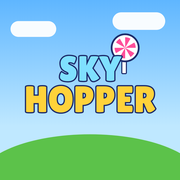
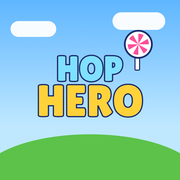
Add files via upload

Changed region(s): [[0.1111, 0.1667, 0.8889, 0.6667]]

diff --git a/index.html b/index.html
@@ -7,7 +7,7 @@
 <meta name="mobile-web-app-capable" content="yes">
 <meta name="apple-mobile-web-app-capable" content="yes">
 <meta name="apple-mobile-web-app-status-bar-style" content="black-translucent">
-<title>Sky Hopper</title>
+<title>Hop Hero</title>
 <link rel="manifest" href="manifest.webmanifest">
 <link rel="icon" href="icons/icon-192.png">
 <link rel="apple-touch-icon" href="icons/apple-touch-icon.png">
@@ -183,9 +183,9 @@
   <!-- Splash / title screen -->
   <div id="splash" class="overlay ui show">
     <div class="splash-inner">
-      <div class="logo big" role="img" aria-label="Sky Hopper">
-        <span class="l1"><span>S</span><span>K</span><span>Y</span></span>
-        <span class="l2"><span>H</span><span>O</span><span>P</span><span>P</span><span>E</span><span>R</span></span>
+      <div class="logo big" role="img" aria-label="Hop Hero">
+        <span class="l1"><span>H</span><span>O</span><span>P</span></span>
+        <span class="l2"><span>H</span><span>E</span><span>R</span><span>O</span></span>
         <svg class="lolly" viewBox="0 0 40 70" aria-hidden="true">
           <rect x="18" y="34" width="4" height="34" rx="2" fill="#fff"/>
           <circle cx="20" cy="20" r="18" fill="#ff5fa8" stroke="#ffd43b" stroke-width="2.5"/>
@@ -196,15 +196,15 @@
       <div class="ribbon">A Lollipop Adventure</div>
       <div class="tap" id="tapStart">Tap to start</div>
     </div>
-    <div class="ver">v1.4</div>
+    <div class="ver">v1.5</div>
   </div>
 
   <!-- Main menu -->
   <div id="menu" class="overlay ui">
     <div class="card menu-card">
-      <div class="logo small" role="img" aria-label="Sky Hopper">
-        <span class="l1"><span>S</span><span>K</span><span>Y</span></span>
-        <span class="l2"><span>H</span><span>O</span><span>P</span><span>P</span><span>E</span><span>R</span></span>
+      <div class="logo small" role="img" aria-label="Hop Hero">
+        <span class="l1"><span>H</span><span>O</span><span>P</span></span>
+        <span class="l2"><span>H</span><span>E</span><span>R</span><span>O</span></span>
         <svg class="lolly" viewBox="0 0 40 70" aria-hidden="true">
           <rect x="18" y="34" width="4" height="34" rx="2" fill="#fff"/>
           <circle cx="20" cy="20" r="18" fill="#ff5fa8" stroke="#ffd43b" stroke-width="2.5"/>
@@ -228,8 +228,8 @@
     <div class="card" style="max-width:480px">
       <h2>How to play</h2>
       <div class="tut">
-        <span class="t-touch">◀ ▶ buttons: run<br>▲ button: jump (hold = higher)<br>✦ button: swing your lollipop<br></span>
-        <span class="t-keys">← → / A D: run<br>Space / ↑ / W: jump (hold = higher)<br>X / J: swing your lollipop<br>P: pause &nbsp;•&nbsp; M: mute &nbsp;•&nbsp; N: music<br></span>
+        <span class="t-touch">◀ ▶ buttons: run<br>▲ button: jump (hold = higher, tap again in the air = double jump)<br>✦ button: swing your lollipop<br></span>
+        <span class="t-keys">← → / A D: run<br>Space / ↑ / W: jump (hold = higher, press again in the air = double jump)<br>X / J: swing your lollipop<br>P: pause &nbsp;•&nbsp; M: mute &nbsp;•&nbsp; N: music<br></span>
         Jump on enemies or bop them with the lollipop.<br>
         Avoid spikes and pits.<br>
         Bounce on springs, float on fans, hang from bars and swing on vines (▲ to let go).<br>
@@ -326,7 +326,7 @@ const TILE = 32, ROWS = 12, VIEW_H = ROWS * TILE;   // world is always 384 units
 const STEP = 1 / 120;                               // fixed physics step
 const PHYS = {
   GRAVITY: 1700, MAX_FALL: 720, RUN: 200, ACC_G: 2400, ACC_A: 1600, FRIC: 2600,
-  JUMP_V: 600, JUMP_CUT: 0.45, COYOTE: 0.09, BUFFER: 0.12
+  JUMP_V: 600, AIR_JUMP_V: 520, JUMP_CUT: 0.45, COYOTE: 0.09, BUFFER: 0.12
 };
 const MAX_HEARTS = 3, START_LIVES = 3, ATK_T = 0.2;
 
@@ -437,6 +437,7 @@ const Sound = {
     } catch (e) {}
   },
   jump()   { this.tone(300, 0.14, 'square', 0.12, 640); },
+  airJump() { this.tone(500, 0.12, 'square', 0.1, 1000); this.tone(750, 0.1, 'triangle', 0.08, 1300, 0.04); },
   roar()   { this.tone(140, 0.6, 'sawtooth', 0.22, 60); this.tone(210, 0.5, 'square', 0.08, 90, 0.05); },
   thud()   { this.tone(110, 0.22, 'sine', 0.5, 40); this.noise(0.12, 0.2, 300); },
   swoop()  { this.tone(900, 0.35, 'triangle', 0.15, 250); },
@@ -575,7 +576,7 @@ const Music = {
 };
 // which loop should be playing right now
 function desiredTrack() {
-  if (G.state === 'playing') return G.boss && G.boss.active ? 4 : Math.min(G.levelIndex, 3);
+  if (G.state === 'playing') return G.boss && G.boss.active ? 4 : ([0, 1, 2, 3, 0][G.levelIndex] ?? 0);
   if (G.state === 'menu' || G.state === 'howto') return 0;
   if (G.state === 'settings') return G.settingsFrom === 'paused' ? -1 : 0;
   return -1;   // paused, level clear, game over, victory -> silence (jingles play instead)
@@ -620,6 +621,7 @@ const LEVELS = [
       .sign(39, 9, 'Avoid spikes').spikes(42, 43, 9)
       .coins(45, 47, 9).q(46, 6)
       .sign(51, 9, 'Checkpoint ⚑').at(53, 9, 'C')
+      .sign(56, 9, 'Tap ▲ again in the air!')
       .plat(59, 8, 2).coins(59, 60, 7)
       .ground(63, 88)
       .sign(65, 9, '✦ = lollipop swing!').at(71, 9, 'e')
@@ -780,7 +782,39 @@ const LEVELS = [
       .ground(214, 216, 3)
       .at(222, 9, 'k').coins(218, 230, 6)
       .sign(235, 9, 'Boss ahead!').at(239, 9, 'C')
-      .arena(244, 266, 'puffer').q(250, 5).q(260, 5) }
+      .arena(244, 266, 'puffer').q(250, 5).q(260, 5) },
+
+  { name: 'Candy Clouds', theme: 4, build: () => makeMap(316)
+      .ground(0, 19).at(2, 9, 'P')
+      .sign(5, 9, 'Candy Clouds!').coins(8, 11, 9)
+      .sign(14, 9, 'Big gap? Double jump!').coins(20, 24, 6)
+      .ground(25, 62).at(30, 9, 'e')
+      .plat(35, 5, 5).coins(35, 39, 4).star(37, 3)
+      .at(44, 9, 'E').q(48, 6).at(52, 5, 'b').coins(55, 57, 9)
+      .at(60, 9, 'C')
+      .plat(65, 8, 3).coins(65, 67, 7)
+      .plat(71, 6, 3).coins(71, 73, 5)
+      .plat(78, 7, 3).coins(78, 80, 6).coins(82, 84, 5)
+      .ground(86, 176).at(92, 9, 'e').at(97, 9, 'e').spikes(104, 105, 9).at(109, 5, 'b')
+      .spring(113, 9).plat(115, 3, 4).coins(115, 118, 2)
+      .at(121, 9, 'C')
+      .spikes(126, 142, 9)
+      .plat(128, 7, 2).coins(128, 129, 6)
+      .plat(133, 6, 2).coins(133, 134, 5)
+      .plat(138, 7, 2).coins(138, 139, 6)
+      .at(148, 9, 'E').at(153, 9, 'e')
+      .fan(160, 9, 9)
+      .ground(162, 167, 2).coins(163, 164, 1).star(165, 1).coins(166, 166, 1)
+      .q(171, 6).q(172, 6)
+      .spring(175, 9).bars(175, 191, 5).star(183, 4).coins(178, 188, 3)
+      .ground(192, 222).at(194, 9, 'C')
+      .at(199, 9, 'E').at(203, 5, 'b').at(207, 9, 'e').spikes(211, 212, 9).coins(215, 218, 9)
+      .vine(224, 1, 7).vine(231, 1, 7).coins(226, 229, 9)
+      .ground(237, 315).at(239, 9, 'C')
+      .ground(246, 250, 7).ground(251, 255, 5).coins(246, 250, 6).coins(251, 255, 4)
+      .at(258, 4, 'b').at(262, 9, 'E').at(266, 9, 'e').spikes(270, 272, 9)
+      .sign(276, 9, 'Boss ahead!').at(280, 9, 'C')
+      .arena(285, 307, 'gummy').q(290, 6).q(302, 6) }
 ];
 
 const THEMES = [
@@ -804,6 +838,12 @@ Object.assign(THEMES[3], { water: true, props: ['weed', 'coral', 'weed', 'coral2
 Object.assign(THEMES[0], { props: ['flower', 'flower', 'bush', 'mush', 'tuft'], amb: 'butterfly', deco: 'trees', decoLight: '#7cc98a', decoDark: '#55a368', trunk: '#7d5a3c', haze: 'rgba(214,243,255,.38)', fore: 'rgba(28,70,32,.6)' });
 Object.assign(THEMES[1], { props: ['cactus', 'rock', 'shrub', 'rock'], amb: 'dust', deco: 'mesas', decoLight: '#eaa06e', decoDark: '#bf6e48', trunk: '#8a4527', haze: 'rgba(255,214,160,.32)', fore: 'rgba(90,35,18,.55)' });
 Object.assign(THEMES[2], { props: ['gmush', 'crystal', 'gmush', 'tuft'], amb: 'firefly', deco: 'crystals', decoLight: '#8ff0ff', decoDark: '#4d7fe0', trunk: '#2a2c58', haze: 'rgba(70,70,150,.35)', fore: 'rgba(8,8,36,.65)' });
+
+THEMES.push({ sky: ['#ff9ad5', '#ffe6f4'], far: '#f7b6e0', near: '#e78cc9', dirt: '#e9b886', dirtDark: '#c98f5e', speck: '#fff1dd',
+  grass: '#ff7ec4', grassLight: '#ffd1ea', plat: '#7cc8ff', platDark: '#3f8fcf', platLight: '#c4e9ff',
+  cloud: 'rgba(255,255,255,.95)', sun: '#fff6c2',
+  props: ['flower', 'mush', 'flower', 'tuft'], amb: 'butterfly', deco: 'trees', decoLight: '#ffb8e0', decoDark: '#ff86c4', trunk: '#ffffff',
+  haze: 'rgba(255,225,242,.38)', fore: 'rgba(120,30,80,.5)' });
 
 function parseLevel(idx) {
   const def = LEVELS[idx], b = def.build(), cols = b.cols, g = b.g;
@@ -901,7 +941,7 @@ function moveBody(b, lv, dt) {
 }
 
 function makePlayer(x, y) {
-  return { x, y, w: 22, h: 28, vx: 0, vy: 0, onGround: false, facing: 1, coyote: 0, jumpBuffer: 0, jumping: false,
+  return { x, y, w: 22, h: 28, vx: 0, vy: 0, onGround: false, facing: 1, coyote: 0, jumpBuffer: 0, jumping: false, airJumps: 1,
     knock: 0, prevBottom: y + 28, hearts: maxHearts(), invuln: 0, atkT: 0, atkCD: 0, dead: false, deadT: 0,
     anim: 0, squash: 1, blink: 2, idleT: 0,
     barI: -1, vineI: -1, ang: 0, angV: 0, ropeR: 0, grabCD: 0, boostT: 0, inFan: false, headHit: null, springT: 0, strokeT: 0, bubbleT: 1 };
@@ -961,7 +1001,7 @@ function playerPhysics(p, inp, dt, lv) {
   if (p.barI >= 0) {
     const bar = lv.bars[p.barI];
     if (p.jumpBuffer > 0) {
-      p.jumpBuffer = 0; p.barI = -1; p.grabCD = 0.35; p.vy = -HOP_V; p.jumping = false;
+      p.jumpBuffer = 0; p.barI = -1; p.grabCD = 0.35; p.vy = -HOP_V; p.jumping = false; p.airJumps = 1;
       ev.jumped = true; ev.released = true; return ev;
     }
     p.vx = dir * BAR_SPEED; if (dir) { p.facing = dir; p.anim += dt * 9; }
@@ -976,7 +1016,7 @@ function playerPhysics(p, inp, dt, lv) {
   if (p.vineI >= 0) {
     const v = lv.vines[p.vineI];
     if (p.jumpBuffer > 0) {
-      p.jumpBuffer = 0; p.vineI = -1; p.grabCD = 0.4;
+      p.jumpBuffer = 0; p.vineI = -1; p.grabCD = 0.4; p.airJumps = 1;
       const tvx = p.angV * p.ropeR * Math.cos(p.ang), tvy = -p.angV * p.ropeR * Math.sin(p.ang);
       p.vx = Math.max(-PHYS.RUN * 1.7, Math.min(PHYS.RUN * 1.7, tvx));
       p.vy = Math.min(tvy, 0) - VINE_BOOST; p.boostT = 0.7; p.jumping = false;
@@ -1011,9 +1051,13 @@ function playerPhysics(p, inp, dt, lv) {
     }
   }
   p.coyote = p.onGround ? PHYS.COYOTE : p.coyote - dt;
+  if (p.onGround) p.airJumps = 1;
   if (p.jumpBuffer > 0) {
     if (p.coyote > 0) {
       p.vy = -PHYS.JUMP_V; p.coyote = 0; p.jumpBuffer = 0; p.jumping = true; p.onGround = false; ev.jumped = true;
+    } else if (p.airJumps > 0 && p.jumpBuffer >= PHYS.BUFFER) {
+      // double jump: one extra jump per airtime, on a fresh press in mid-air
+      p.airJumps--; p.vy = -PHYS.AIR_JUMP_V; p.jumpBuffer = 0; p.jumping = true; ev.jumped = true; ev.airJump = true;
     } else p.jumpBuffer -= dt;
   }
   if (p.jumping && !inp.jump && p.vy < 0) { p.vy *= PHYS.JUMP_CUT; p.jumping = false; }
@@ -1033,7 +1077,7 @@ function playerPhysics(p, inp, dt, lv) {
     const fromAbove = p.prevBottom <= sp.y + 10 && feet >= sp.y - 1;
     const walkedOn = p.onGround && Math.abs(cx - (sp.x + sp.w / 2)) < 9 && Math.abs(feet - (sp.y + sp.h)) < 2;
     if (fromAbove || walkedOn) {
-      p.y = sp.y - p.h; p.vy = -SPRING_V; p.onGround = false; p.jumping = false; p.coyote = 0; p.jumpBuffer = 0;
+      p.y = sp.y - p.h; p.vy = -SPRING_V; p.onGround = false; p.jumping = false; p.coyote = 0; p.jumpBuffer = 0; p.airJumps = 1;
       ev.spring = sp; ev.landed = false; break;
     }
   }
@@ -1259,19 +1303,20 @@ const BOSSES = {
   slime:  { name: 'King Slime',    w: 76, h: 58 },
   beetle: { name: 'Captain Shell', w: 84, h: 50 },
   bat:    { name: 'Bat Queen',     w: 74, h: 46 },
-  puffer: { name: 'Puffer King',   w: 66, h: 58 }
+  puffer: { name: 'Puffer King',   w: 66, h: 58 },
+  gummy:  { name: 'Gummy King',    w: 80, h: 62, hp: 4 }
 };
 const BOSS_HP = 3;
 function makeBoss(lv) {
   const a = lv.arena, d = BOSSES[a.type];
-  const b = { type: a.type, name: d.name, w: d.w, h: d.h, hp: BOSS_HP, maxHp: BOSS_HP, x: a.x1 - 150 - d.w, y: 0, vx: 0, vy: 0,
+  const b = { type: a.type, name: d.name, w: d.w, h: d.h, hp: d.hp || BOSS_HP, maxHp: d.hp || BOSS_HP, hops: 0, x: a.x1 - 150 - d.w, y: 0, vx: 0, vy: 0,
     state: 'wait', t: 0, hurtT: 0, dir: -1, look: -1, active: false, defeated: false, deadT: 0, onGround: false, scale: 1 };
   b.y = a.type === 'bat' ? 70 : a.type === 'puffer' ? 150 : 10 * TILE - d.h;
   return b;
 }
 function bossVulnerable(B) {
   if (!B || B.hurtT > 0 || B.defeated) return false;
-  return B.type === 'slime' || (B.type === 'beetle' && B.state === 'dizzy') || (B.type === 'bat' && B.state === 'stuck') ||
+  return B.type === 'slime' || B.type === 'gummy' || (B.type === 'beetle' && B.state === 'dizzy') || (B.type === 'bat' && B.state === 'stuck') ||
     (B.type === 'puffer' && (B.state === 'swim' || B.state === 'deflate'));
 }
 function bossHarmful(B) {
@@ -1295,7 +1340,7 @@ function setGates(on) {
 function startBossFight() {
   const B = G.boss;
   B.active = true; B.t = 0;
-  B.state = { slime: 'idle', beetle: 'walk', bat: 'fly', puffer: 'swim' }[B.type];
+  B.state = { slime: 'idle', gummy: 'idle', beetle: 'walk', bat: 'fly', puffer: 'swim' }[B.type];
   setGates(true);
   G.bossBanner = 2.6; G.shake = 0.3;
   Sound.roar();
@@ -1314,8 +1359,8 @@ function hitBoss(how) {
   Sound.bossHit();
   if (B.hp <= 0) { defeatBoss(); return; }
   B.t = 0;
-  B.state = { slime: 'idle', beetle: 'walk', bat: 'rise', puffer: 'swim' }[B.type];
-  B.vx = 0; if (B.type !== 'slime' && B.type !== 'beetle') B.vy = 0;
+  B.state = { slime: 'idle', gummy: 'idle', beetle: 'walk', bat: 'rise', puffer: 'swim' }[B.type];
+  B.vx = 0; if (B.type !== 'slime' && B.type !== 'gummy' && B.type !== 'beetle') B.vy = 0;
   if (B.type === 'puffer') B.scale = 1;
 }
 function defeatBoss() {
@@ -1336,13 +1381,21 @@ function updateBoss(B, dt) {
   B.t += dt; if (B.hurtT > 0) B.hurtT -= dt;
   const pc = p.x + p.w / 2, bc = B.x + B.w / 2, rage = B.maxHp - B.hp;
   B.look = pc >= bc ? 1 : -1;
-  if (B.type === 'slime') {
+  if (B.type === 'slime' || B.type === 'gummy') {
+    const gummy = B.type === 'gummy';
     B.vy = Math.min(B.vy + PHYS.GRAVITY * dt, PHYS.MAX_FALL);
     const was = B.onGround;
     moveBody(B, lv, dt);
     if (B.state === 'idle') {
       B.vx = 0;
-      if (B.t > 1.0 - rage * 0.2) { B.state = 'air'; B.t = 0; B.vy = -600 - rage * 50; B.dir = B.look; B.vx = B.dir * (110 + rage * 45); }
+      if (B.t > (gummy ? 0.85 - rage * 0.12 : 1.0 - rage * 0.2)) {
+        B.state = 'air'; B.t = 0; B.vy = -600 - rage * 50; B.dir = B.look; B.vx = B.dir * (110 + rage * 45);
+        if (gummy) B.hops = 1;
+      }
+    } else if (gummy && B.hops > 0 && B.vy > 0 && B.t > 0.3) {
+      // the Gummy King bounces a second time in mid-air, just like you can
+      B.hops = 0; B.t = 0; B.vy = -480; B.dir = B.look; B.vx = B.dir * (130 + rage * 40); Sound.airJump();
+      burst(bc, B.y + B.h, 10, '#ffffff', 160, 3.5, 200, 'star');
     } else if (B.onGround && !was) {
       B.state = 'idle'; B.t = 0; B.vx = 0; G.shake = Math.max(G.shake, 0.2); Sound.thud();
       for (let i = 0; i < 10; i++) addParticle(bc + (Math.random() - 0.5) * 60, B.y + B.h, (Math.random() - 0.5) * 220, -Math.random() * 80, 0.4, 4, 'rgba(255,255,255,.8)', 300);
@@ -1463,7 +1516,8 @@ function step(dt) {
 
   // ---- player movement ----
   const r = playerPhysics(p, held, dt, lv);
-  if (r.jumped) { Sound.jump(); p.squash = 1.3; for (let i = 0; i < 5; i++) addParticle(p.x + p.w / 2, p.y + p.h, (Math.random() - 0.5) * 120, -Math.random() * 40, 0.3, 3, 'rgba(255,255,255,.7)', 200); }
+  if (r.airJump) { Sound.airJump(); p.squash = 1.25; burst(p.x + p.w / 2, p.y + p.h, 8, '#ffffff', 140, 3, 200, 'star'); }
+  else if (r.jumped) { Sound.jump(); p.squash = 1.3; for (let i = 0; i < 5; i++) addParticle(p.x + p.w / 2, p.y + p.h, (Math.random() - 0.5) * 120, -Math.random() * 40, 0.3, 3, 'rgba(255,255,255,.7)', 200); }
   if (r.spring) {
     r.spring.t = 0.35; Sound.spring(); p.squash = 1.4; p.springT = 0.7;
     burst(r.spring.x + 12, r.spring.y, 10, '#ffffff', 160, 3, 300, 'star');
@@ -2296,14 +2350,19 @@ function drawBoss(B, t) {
   if (B.defeated) ctx.scale(1 + B.deadT, Math.max(0.1, 1 - B.deadT));
   if ((B.type === 'beetle' && B.state === 'prep') || (B.type === 'bat' && B.state === 'aim')) ctx.translate(Math.sin(t * 70) * 2, 0);
   const look = B.look || 1;
-  if (B.type === 'slime') {
+  if (B.type === 'slime' || B.type === 'gummy') {
+    const gummy = B.type === 'gummy';
     const sq = B.onGround ? 1 + Math.sin(B.t * 7) * 0.04 : (B.vy < 0 ? 1.15 : 0.9);
     ctx.scale(1 / Math.sqrt(sq), sq);
-    const g = ctx.createRadialGradient(-14, -44, 4, 0, -26, 46); g.addColorStop(0, '#d8c2ff'); g.addColorStop(0.5, '#9d6dff'); g.addColorStop(1, '#5d32c4');
+    if (gummy) ctx.scale(1.08, 1.08);
+    const g = ctx.createRadialGradient(-14, -44, 4, 0, -26, 46);
+    if (gummy) { g.addColorStop(0, '#ffe0f0'); g.addColorStop(0.5, '#ff5fae'); g.addColorStop(1, '#c2307a'); }
+    else { g.addColorStop(0, '#d8c2ff'); g.addColorStop(0.5, '#9d6dff'); g.addColorStop(1, '#5d32c4'); }
+    if (gummy) { ctx.fillStyle = '#e8479a'; for (const ex of [-25, 25]) { ctx.beginPath(); ctx.arc(ex, -48, 11, 0, Math.PI * 2); ctx.fill(); } }
     ctx.fillStyle = g; ctx.beginPath(); ctx.moveTo(-38, 0); ctx.quadraticCurveTo(-44, -52, 0, -56); ctx.quadraticCurveTo(44, -52, 38, 0); ctx.closePath(); ctx.fill();
     ctx.fillStyle = 'rgba(255,255,255,.45)'; ctx.beginPath(); ctx.ellipse(-16, -40, 7, 4, -0.6, 0, Math.PI * 2); ctx.fill();
     bossEyes(-12 + look * 4, -30, 12 + look * 4, -30, 8, look, 'angry');
-    ctx.fillStyle = '#3a1670'; ctx.beginPath(); ctx.ellipse(look * 4, -14, 11, 6, 0, 0, Math.PI); ctx.fill();
+    ctx.fillStyle = gummy ? '#6e0f3d' : '#3a1670'; ctx.beginPath(); ctx.ellipse(look * 4, -14, 11, 6, 0, 0, Math.PI); ctx.fill();
     ctx.fillStyle = '#fff'; ctx.fillRect(look * 4 - 7, -14, 4, 3); ctx.fillRect(look * 4 + 3, -14, 4, 3);
     crown(0, -54, 1.1);
   } else if (B.type === 'beetle') {

diff --git a/privacy.html b/privacy.html
@@ -1,11 +1,11 @@
 <!DOCTYPE html>
 <html lang="en"><head><meta charset="utf-8"><meta name="viewport" content="width=device-width,initial-scale=1">
-<title>Sky Hopper – Privacy Policy</title>
+<title>Hop Hero – Privacy Policy</title>
 <style>body{font-family:system-ui,Arial,sans-serif;max-width:720px;margin:0 auto;padding:24px 16px;line-height:1.6;color:#222;background:#fff}h1{color:#141833}h2{margin-top:28px}</style>
 </head><body>
-<h1>Sky Hopper – Privacy Policy</h1>
+<h1>Hop Hero – Privacy Policy</h1>
 <p>Last updated: October 19, 2026</p>
-<p>Sky Hopper is a single-player game. We respect your privacy and the privacy of children who play it.</p>
+<p>Hop Hero is a single-player game. We respect your privacy and the privacy of children who play it.</p>
 <h2>Information we collect</h2>
 <p>None. The game does not ask for, collect, or send any personal information. There are no accounts, ads, analytics, in-app purchases, or third-party tracking.</p>
 <h2>Data stored on your device</h2>

diff --git a/sw.js b/sw.js
@@ -1,4 +1,4 @@
-const CACHE = 'sky-hopper-v1.4';
+const CACHE = 'hop-hero-v1.5';
 const CORE = ['./', './index.html', './manifest.webmanifest', './icons/icon-192.png', './icons/icon-512.png', './icons/maskable-512.png'];
 self.addEventListener('install', e => {
   e.waitUntil(caches.open(CACHE).then(c => c.addAll(CORE)).then(() => self.skipWaiting()));
